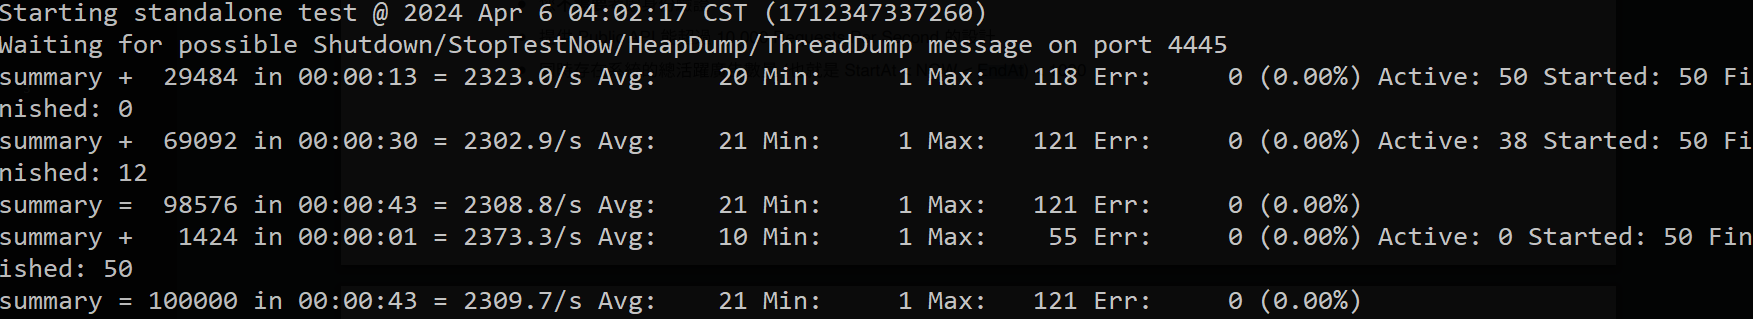
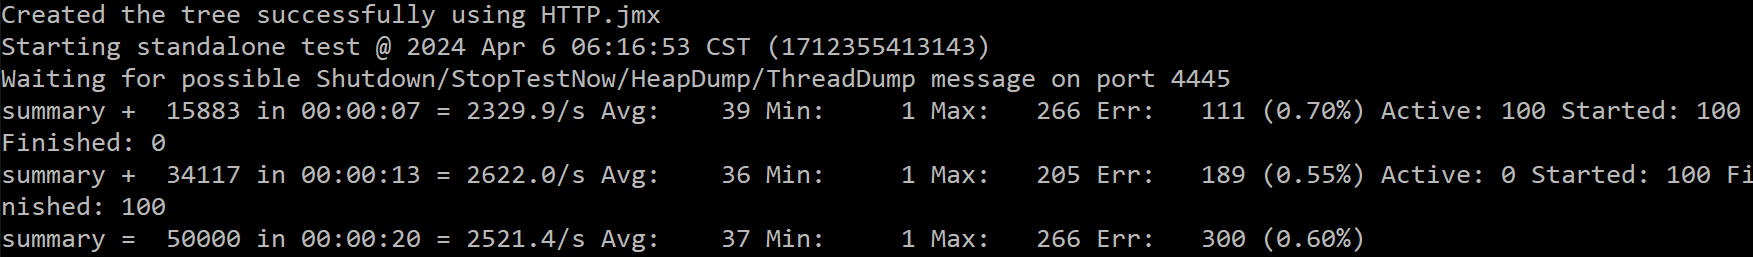
Add indexing.

diff --git a/cmd/connect/connect.go b/cmd/connect/connect.go
@@ -32,37 +32,46 @@ func GetDBconnection() *sql.DB {
 }
 
 // Constant: The query string to create table in database.
-const initCreateTableQuery1 = `CREATE TABLE Ad (
-    							ID SERIAL PRIMARY KEY,
-    							Title text NOT NULL,
-								StartAt timestamp NOT NULL,
-								EndAt timestamp NOT NULL,
-								AgeStart int,
-								AgeEnd int,
-								Male boolean,
-								Female boolean,
-								PlatformAndroid boolean,
-								PlatformIos boolean,
+var initCreateTableQuery = [7]string{
+	`CREATE TABLE Ad (
+    	ID SERIAL PRIMARY KEY,
+    	Title text NOT NULL,
+		StartAt timestamp NOT NULL,
+		EndAt timestamp NOT NULL,
+		AgeStart int,
+		AgeEnd int,
+		Male boolean,
+		Female boolean,
+		PlatformAndroid boolean,
+		PlatformIos boolean,
 								PlatformWeb boolean
-							);`
-const initCreateTableQuery2 = `CREATE TABLE Country (
-    							ID int NOT NULL references Ad(ID),
-								Country char(2)
-							);`
+	);`,
+	`CREATE TABLE Country (
+    	ID int NOT NULL references Ad(ID),
+		Country char(2)
+	);`,
+	"CREATE INDEX country_index ON Country USING HASH (country);",
+	"CREATE INDEX ad_agestart_index ON Ad USING BTREE (agestart);",
+	"CREATE INDEX ad_agestart_index ON Ad USING BTREE (ageend);",
+	"CREATE INDEX ad_endat_index ON Ad USING BTREE (endat);",
+	"CREATE INDEX ad_startat_index ON Ad USING BTREE (startat);"}
 
 // Function: Check if ad table exists.
 func checkTableExist() {
-	_, check := dbConnection.Query("SELECT * FROM Ad;")
-	if check != nil {
-		_, err := dbConnection.Exec(initCreateTableQuery1)
-		CheckError(err)
 
-		fmt.Println("Create Ad table.")
+	for i := 0; i < 7; i++ {
+		var check error
+		if i == 0 {
+			_, check = dbConnection.Query("SELECT * FROM Ad;")
+		}
+		if i == 1 {
+			_, check = dbConnection.Query("SELECT * FROM Country;")
+		}
+		if check != nil {
+			_, err := dbConnection.Exec(initCreateTableQuery[i])
+			CheckError(err)
+			fmt.Println("Create.")
+		}
 	}
-	_, check = dbConnection.Query("SELECT * FROM Country;")
-	if check != nil {
-		_, err := dbConnection.Exec(initCreateTableQuery2)
-		CheckError(err)
-		fmt.Println("Create Country table.")
-	}
+
 }

diff --git a/api/v1/ad/get.go b/api/v1/ad/get.go
@@ -119,7 +119,7 @@ func getFormatError(w http.ResponseWriter) {
 
 // Function: Parse query string.
 func parseQuery(search *SearchAd) string {
-	condition := "WHERE NOW()>startat"
+	condition := "WHERE NOW()>startat AND NOW()<endat"
 	if search.Age != 0 {
 		condition += fmt.Sprintf(" AND ((A.agestart <= %d AND A.ageend >= %d) OR (A.agestart = 0 AND A.ageend = 0))", search.Age, search.Age)
 	}

diff --git a/README.md b/README.md
@@ -56,12 +56,12 @@ make test_get
 
 ## Conclusion and Future work
 1. 我在要求的功能上皆能正常運作
-2. 但在壓力測試中，我自己的環境裡，1000筆資料中，對get method只能跑出大約2300次/s多的效能，而且若user太多，server也會自行reject掉request。
+2. 但在壓力測試中，我自己的環境裡，1000筆資料中，對get method只能跑出大約2500次/s多的效能，而且若user太多，server也會自行reject掉request。
    
    如果要嘗試改善的話，我想能透過Redis來做資料cache。我的測試資料是隨機生成，但實際情況，資料從database讀取有相當大的locality，像是EndAt多半會使用較接近現在時間的。這樣能大幅減少access disk的時間。甚至在資料不大的情況，其實可以直接全部使用Redis會有最快的速度。
    
    此外，在實際佈署時，可以使用kubernetes之類的工具去做load balance，根據資料範圍，像是國家，年齡區間等分散到不同的節點上，然後節點上再做cache，我認為能大幅提升效能。
-![](img/pressure_test.png) (同時 50 users)
+![](img/pressure_test.png) (同時 100 users)
 3. 在簡化指令操作上，我簡單的使用make來代替，若在實際專案，可透過Ansible之類的工具來強化CI的功能性
 
 ## 環境設定
@@ -100,6 +100,11 @@ CREATE TABLE Country (
     Country char(2),
     PRIMARY KEY (ID, Country)
 );
+CREATE INDEX country_index ON Country USING HASH (country);
+CREATE INDEX ad_agestart_index ON Ad USING BTREE (agestart);
+CREATE INDEX ad_ageend_index ON Ad USING BTREE (ageend);
+CREATE INDEX ad_endat_index ON Ad USING BTREE (endat);
+CREATE INDEX ad_startat_index ON Ad USING BTREE (startat);
 ```
 
 ## 範例request
